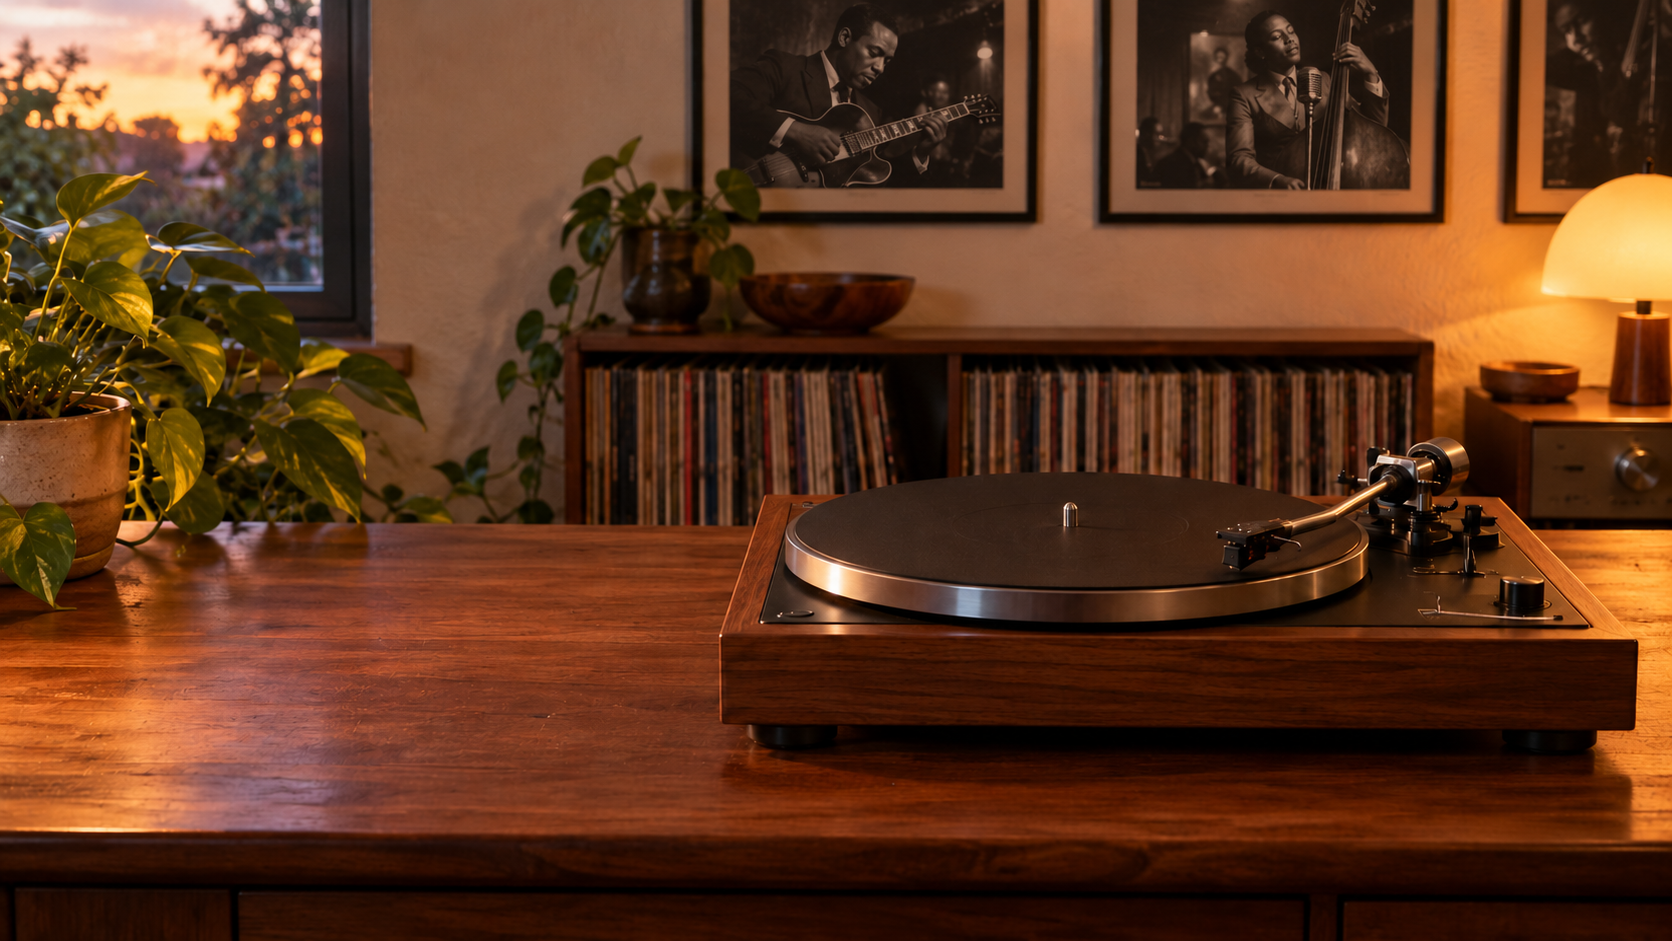
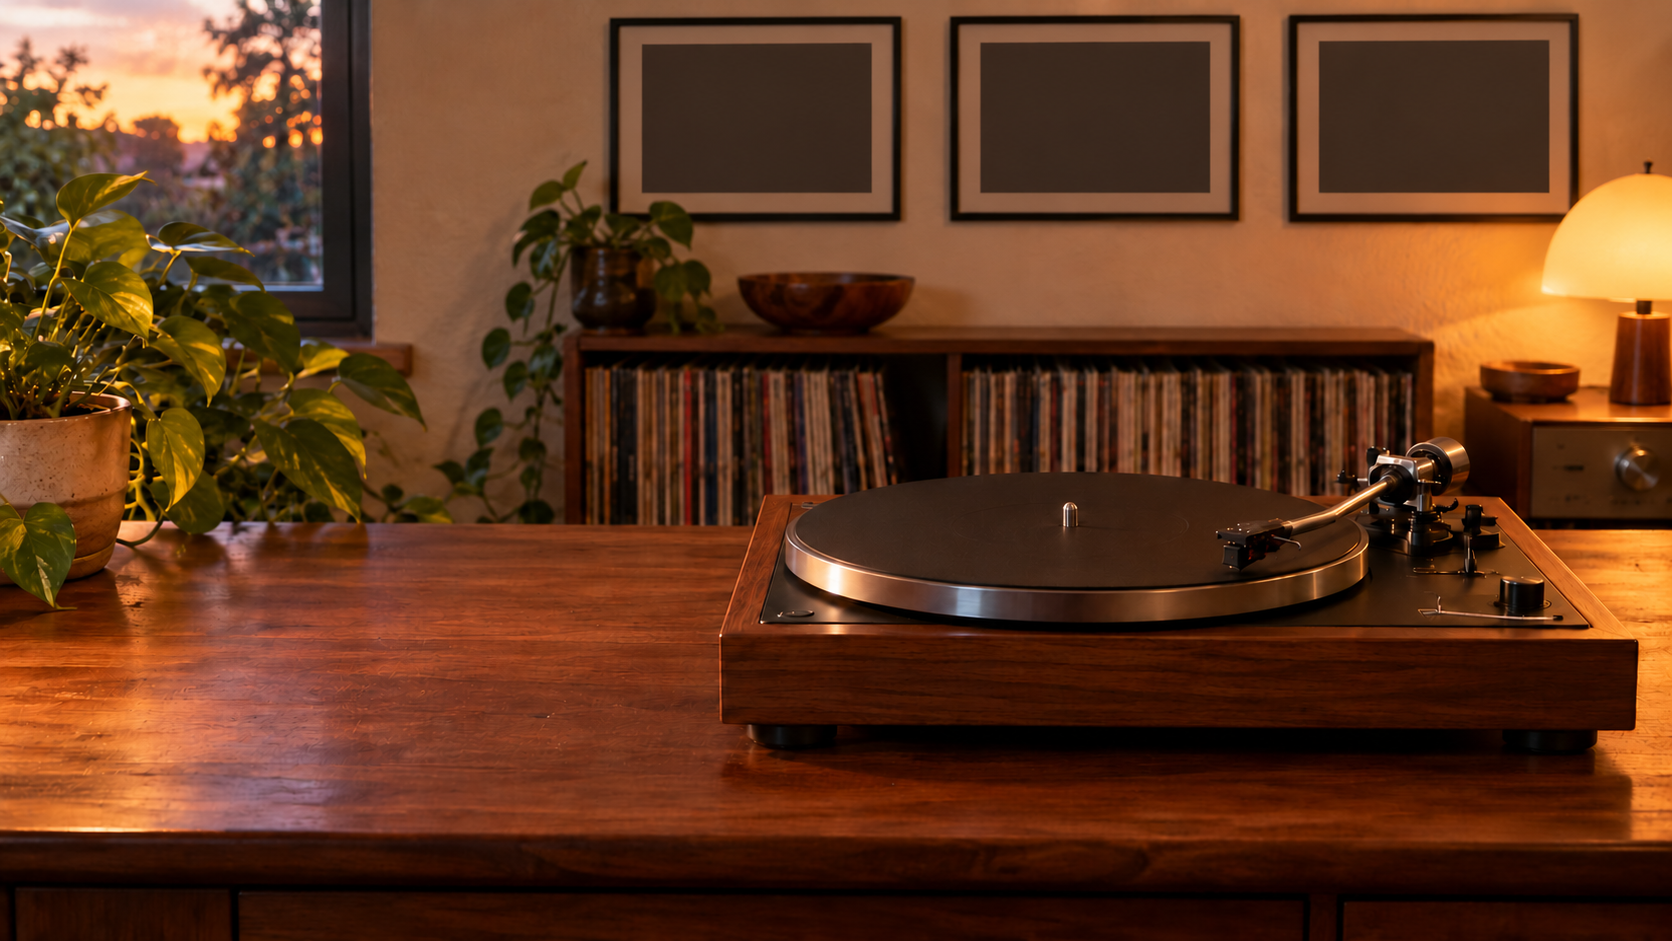
Add recent album cover frames and stylus contact

Changed region(s): [[0.2799, 0.0, 1.0, 0.4931], [0.0311, 0.4006, 0.0933, 0.4315]]

diff --git a/src/render.c b/src/render.c
@@ -129,30 +129,67 @@ static void draw_live_record(cairo_t *cr, int w, int h, double angle) {
     cairo_restore(cr);
 }
 
-static void draw_now_playing(cairo_t *cr, int w, int h, double s) {
-    if (!get_bool_pref("show-caption", TRUE)) return;
-    double x = w * .18, y = h * .075, pw = 350*s, ph = 76*s;
-    rounded_rect(cr, x, y, pw, ph, 10*s); set_source(cr, .055, .052, .047, .78); cairo_fill(cr);
-    rounded_rect(cr, x, y, pw, ph, 10*s); cairo_set_line_width(cr, 1*s); set_source(cr, 1, .91, .76, .19); cairo_stroke(cr);
-    double art = 56*s, ax = x + 11*s, ay = y + 10*s;
-    rounded_rect(cr, ax, ay, art, art, 4*s); cairo_save(cr); cairo_clip(cr);
-    if (now.cover) paint_cover_image(cr, now.cover, ax, ay, art, art);
-    else {
-        cairo_pattern_t *p = cairo_pattern_create_linear(ax, ay, ax + art, ay + art);
-        cairo_pattern_add_color_stop_rgb(p, 0, .55, .35, .23); cairo_pattern_add_color_stop_rgb(p, 1, .17, .22, .20);
-        cairo_rectangle(cr, ax, ay, art, art); cairo_set_source(cr, p); cairo_fill(cr); cairo_pattern_destroy(p);
-        centered_text(cr, "33⅓", ax + art/2, ay + art*.56, 11*s, "Serif", .96, .84, .62, .95);
-    }
+static void draw_stylus_contact(cairo_t *cr, double scene_w, double scene_h) {
+    /* The photo's arm is hidden where the spinning record covers it. Continue it over the vinyl. */
+    const double start_x = scene_w*.784, start_y = scene_h*.535;
+    const double head_x = scene_w*.738, head_y = scene_h*.554;
+    const double tip_x = scene_w*.732, tip_y = scene_h*.588;
+    double angle = atan2(head_y - start_y, head_x - start_x);
+    cairo_set_line_cap(cr, CAIRO_LINE_CAP_ROUND);
+    cairo_move_to(cr, start_x, start_y); cairo_line_to(cr, head_x, head_y);
+    set_source(cr, .72, .67, .58, .96); cairo_set_line_width(cr, scene_w*.004); cairo_stroke(cr);
+    cairo_move_to(cr, start_x, start_y); cairo_line_to(cr, head_x, head_y);
+    set_source(cr, 1, .94, .81, .86); cairo_set_line_width(cr, scene_w*.0014); cairo_stroke(cr);
+    cairo_save(cr); cairo_translate(cr, head_x, head_y); cairo_rotate(cr, angle);
+    rounded_rect(cr, -scene_w*.010, -scene_h*.006, scene_w*.021, scene_h*.013, scene_w*.0025);
+    set_source(cr, .12, .105, .088, 1); cairo_fill(cr);
     cairo_restore(cr);
-    double tx = x + 79*s;
-    cairo_arc(cr, tx + 3*s, y + 18*s, 3*s, 0, 2*G_PI); set_source(cr, .73, .86, .63, .96); cairo_fill(cr);
-    text(cr, "NOW SPINNING", tx + 12*s, y + 21*s, 7*s, "Sans", CAIRO_FONT_WEIGHT_BOLD, .75, .71, .64, .96);
-    char *title = g_strdup(now.title && *now.title ? now.title : "Needle is ready");
-    if (strlen(title) > 31) title[31] = 0;
-    text(cr, title, tx, y + 43*s, 14*s, "Serif", CAIRO_FONT_WEIGHT_BOLD, .98, .93, .84, .98); g_free(title);
-    char *byline = g_strdup_printf("%s%s%s", now.artist && *now.artist ? now.artist : "Start a player", (now.album && *now.album) ? "  ·  " : "", now.album && *now.album ? now.album : "");
-    if (strlen(byline) > 46) byline[46] = 0;
-    text(cr, byline, tx, y + 59*s, 8*s, "Sans", CAIRO_FONT_WEIGHT_NORMAL, .77, .73, .67, .97); g_free(byline);
+    cairo_move_to(cr, head_x, head_y + scene_h*.005);
+    cairo_line_to(cr, tip_x, tip_y);
+    set_source(cr, .91, .83, .67, .98); cairo_set_line_width(cr, MAX(.8, scene_w*.00065)); cairo_stroke(cr);
+    cairo_arc(cr, tip_x, tip_y, MAX(1.1, scene_w*.0008), 0, 2*G_PI);
+    set_source(cr, .97, .89, .72, 1); cairo_fill(cr);
+}
+
+static void draw_recent_covers(cairo_t *cr, double scene_w, double scene_h) {
+    const GPtrArray *recent = player_recent_covers();
+    if (!get_bool_pref("show-art", TRUE) || !recent) return;
+    const double centers[] = {scene_w*.452, scene_w*.656, scene_w*.860};
+    const double side = scene_h*.153;
+    for (guint i = 0; i < G_N_ELEMENTS(centers) && i < recent->len; i++) {
+        RecentCover *item = g_ptr_array_index((GPtrArray *)recent, i);
+        if (!item || !item->cover) continue;
+        double x = centers[i] - side*.5, y = scene_h*.047;
+        cairo_save(cr);
+        cairo_rectangle(cr, x, y, side, side); cairo_clip(cr);
+        paint_cover_image(cr, item->cover, x, y, side, side);
+        cairo_restore(cr);
+    }
+}
+
+static void draw_cover_stand(cairo_t *cr, double x, double y, double size) {
+    /* Walnut easel and a shallow shelf sit behind the jacket. */
+    cairo_set_line_cap(cr, CAIRO_LINE_CAP_ROUND);
+    set_source(cr, .16, .075, .032, .95); cairo_set_line_width(cr, size*.032);
+    cairo_move_to(cr, x + size*.12, y + size*.82); cairo_line_to(cr, x + size*.035, y + size*1.08); cairo_stroke(cr);
+    cairo_move_to(cr, x + size*.88, y + size*.82); cairo_line_to(cr, x + size*.965, y + size*1.08); cairo_stroke(cr);
+    set_source(cr, .30, .15, .065, .98);
+    rounded_rect(cr, x - size*.045, y + size*.985, size*1.09, size*.075, size*.018); cairo_fill(cr);
+    set_source(cr, .67, .41, .18, .72); cairo_set_line_width(cr, MAX(.7, size*.006));
+    cairo_move_to(cr, x - size*.025, y + size*1.005); cairo_line_to(cr, x + size*1.025, y + size*1.005); cairo_stroke(cr);
+}
+
+static void draw_current_sleeve(cairo_t *cr, double x, double y, double size) {
+    if (!get_bool_pref("show-art", TRUE)) return;
+    draw_cover_stand(cr, x, y, size);
+    draw_sleeve(cr, x, y, size);
+    if (get_bool_pref("show-caption", TRUE) && now.title && *now.title) {
+        char *title = g_strdup(now.title);
+        if (strlen(title) > 25) title[25] = 0;
+        centered_text(cr, title, x + size*.5, y + size*1.039, size*.040,
+            "Sans", .91, .78, .56, .96);
+        g_free(title);
+    }
 }
 
 void draw_scene(cairo_t *cr, int w, int h, double angle) {
@@ -165,11 +202,11 @@ void draw_scene(cairo_t *cr, int w, int h, double angle) {
     cairo_translate(cr, w*.5, h*.5); cairo_scale(cr, fit*zoom, fit*zoom);
     cairo_translate(cr, -scene_w*.5, -scene_h*.5);
     if (!get_bool_pref("transparent-background", FALSE)) draw_background(cr, scene_w, scene_h);
+    draw_recent_covers(cr, scene_w, scene_h);
     draw_live_record(cr, scene_w, scene_h, angle);
+    draw_stylus_contact(cr, scene_w, scene_h);
     double sleeve_size = scene_w*.105;
-    draw_sleeve(cr, scene_w*.265, scene_h*.64, sleeve_size);
-    double ui_scale = MIN(scene_w/1920.0, scene_h/1080.0);
-    draw_now_playing(cr, scene_w, scene_h, ui_scale);
+    draw_current_sleeve(cr, scene_w*.265, scene_h*.61, sleeve_size);
     cairo_restore(cr);
 }
 

diff --git a/src/player.c b/src/player.c
@@ -19,6 +19,40 @@ typedef struct {
 GDBusConnection *bus;
 SoupSession *http_session;
 NowPlaying now = {0};
+static GPtrArray *recent_covers;
+
+static void recent_cover_free(gpointer data) {
+    RecentCover *item = data;
+    g_free(item->key);
+    g_clear_object(&item->cover);
+    g_free(item);
+}
+
+static gchar *now_key(void) {
+    return g_strdup_printf("%s\n%s\n%s", now.title ? now.title : "",
+        now.artist ? now.artist : "", now.album ? now.album : "");
+}
+
+static void remember_current_cover(void) {
+    if (!recent_covers || (!now.title && !now.artist && !now.album)) return;
+    gchar *key = now_key();
+    GdkPixbuf *cover = now.cover ? g_object_ref(now.cover) : NULL;
+    for (guint i = 0; i < recent_covers->len; i++) {
+        RecentCover *old = g_ptr_array_index(recent_covers, i);
+        if (g_strcmp0(old->key, key) == 0) {
+            if (!cover && old->cover) cover = g_object_ref(old->cover);
+            g_ptr_array_remove_index(recent_covers, i);
+            break;
+        }
+    }
+    RecentCover *item = g_new0(RecentCover, 1);
+    item->key = key;
+    item->cover = cover;
+    g_ptr_array_insert(recent_covers, 0, item);
+    while (recent_covers->len > 3) g_ptr_array_remove_index(recent_covers, recent_covers->len - 1);
+}
+
+const GPtrArray *player_recent_covers(void) { return recent_covers; }
 
 static char *variant_string(GVariant *dict, const char *key) {
     const char *value = NULL;
@@ -91,6 +125,7 @@ static void cover_downloaded(GObject *source, GAsyncResult *result, gpointer dat
     if (g_strcmp0(now.art_url, request->url) == 0 && pixbuf) {
         g_clear_object(&now.cover);
         now.cover = pixbuf;
+        remember_current_cover();
         for (guint i = 0; i < wallpapers->len; i++) refresh_wallpaper(g_ptr_array_index(wallpapers, i));
     } else g_clear_object(&pixbuf);
     if (error) g_error_free(error);
@@ -149,7 +184,12 @@ static gboolean poll_mpris(gpointer unused) {
         g_strcmp0(candidate.album, now.album) || g_strcmp0(candidate.art_url, now.art_url) ||
         g_strcmp0(candidate.status, now.status) || g_strcmp0(candidate.player, now.player);
     if (changed) {
-        now_clear(&now); now = candidate; refresh_art();
+        const gboolean same_art = g_strcmp0(candidate.art_url, now.art_url) == 0;
+        GdkPixbuf *previous_cover = same_art && now.cover ? g_object_ref(now.cover) : NULL;
+        now_clear(&now); now = candidate;
+        if (previous_cover) now.cover = previous_cover;
+        else refresh_art();
+        remember_current_cover();
         for (guint i = 0; i < wallpapers->len; i++) refresh_wallpaper(g_ptr_array_index(wallpapers, i));
         update_visibility();
     } else now_clear(&candidate);
@@ -157,6 +197,7 @@ static gboolean poll_mpris(gpointer unused) {
 }
 
 void player_init(void) {
+    recent_covers = g_ptr_array_new_with_free_func(recent_cover_free);
     bus = g_bus_get_sync(G_BUS_TYPE_SESSION, NULL, NULL);
     http_session = soup_session_new();
     g_object_set(http_session, "timeout", 8u, "user-agent", "Needle/0.1", NULL);
@@ -165,6 +206,7 @@ void player_init(void) {
 
 void player_shutdown(void) {
     now_clear(&now);
+    g_clear_pointer(&recent_covers, g_ptr_array_unref);
     g_clear_object(&bus);
     g_clear_object(&http_session);
 }

diff --git a/src/needle.h b/src/needle.h
@@ -22,6 +22,11 @@ typedef struct {
     GdkPixbuf *cover;
 } NowPlaying;
 
+typedef struct {
+    gchar *key;
+    GdkPixbuf *cover;
+} RecentCover;
+
 extern GtkApplication *app;
 extern GPtrArray *wallpapers;
 extern GKeyFile *prefs;
@@ -48,3 +53,4 @@ void update_visibility(void);
 void start_wallpaper(void);
 void player_init(void);
 void player_shutdown(void);
+const GPtrArray *player_recent_covers(void);

diff --git a/README.md b/README.md
@@ -29,9 +29,9 @@ launch-login=false
 ```
 
 - `framing`: `wide`, `mid`, or `close`.
-- `transparent-background`: set to `true` to show only the record and sleeve over the desktop.
-- `show-art`: show the current album cover on the desk.
-- `show-caption`: show track and artist details.
+- `transparent-background`: set to `true` to float the record, recent covers, and current sleeve over the desktop.
+- `show-art`: show recent covers in the wall frames and the current sleeve on its stand.
+- `show-caption`: show the current track title on the sleeve stand's small label.
 - `hide-paused`: hide the scene when the player is not playing.
 - `launch-login`: create or remove the per-user XDG autostart entry.
 
@@ -40,6 +40,8 @@ launch-login=false
 Wayland layer-shell is the priority and targets compositors such as Hyprland and Niri that expose `zwlr_layer_shell_v1`. GNOME Wayland is not supported in this v0. X11 uses a desktop-window fallback; placement depends on the desktop environment.
 
 The wallpaper surface is non-interactive so desktop icons and pointer actions pass through it. MPRIS artwork may come from a local file or HTTP(S) URL; remote fetches are asynchronous, time out after eight seconds, and are limited to 12 MiB.
+
+The three wall frames show the current cover and the two most recently played covers observed during the current Needle session.
 
 ## macOS
 
